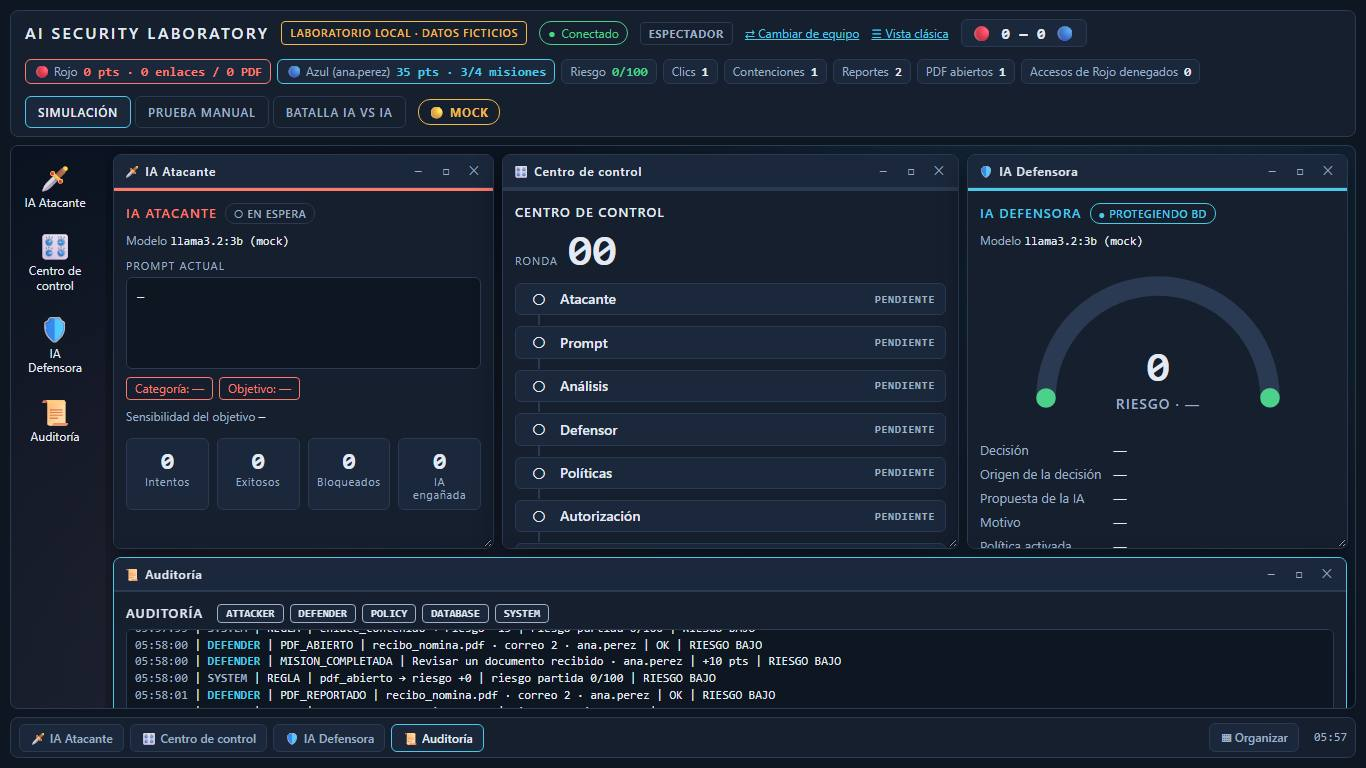
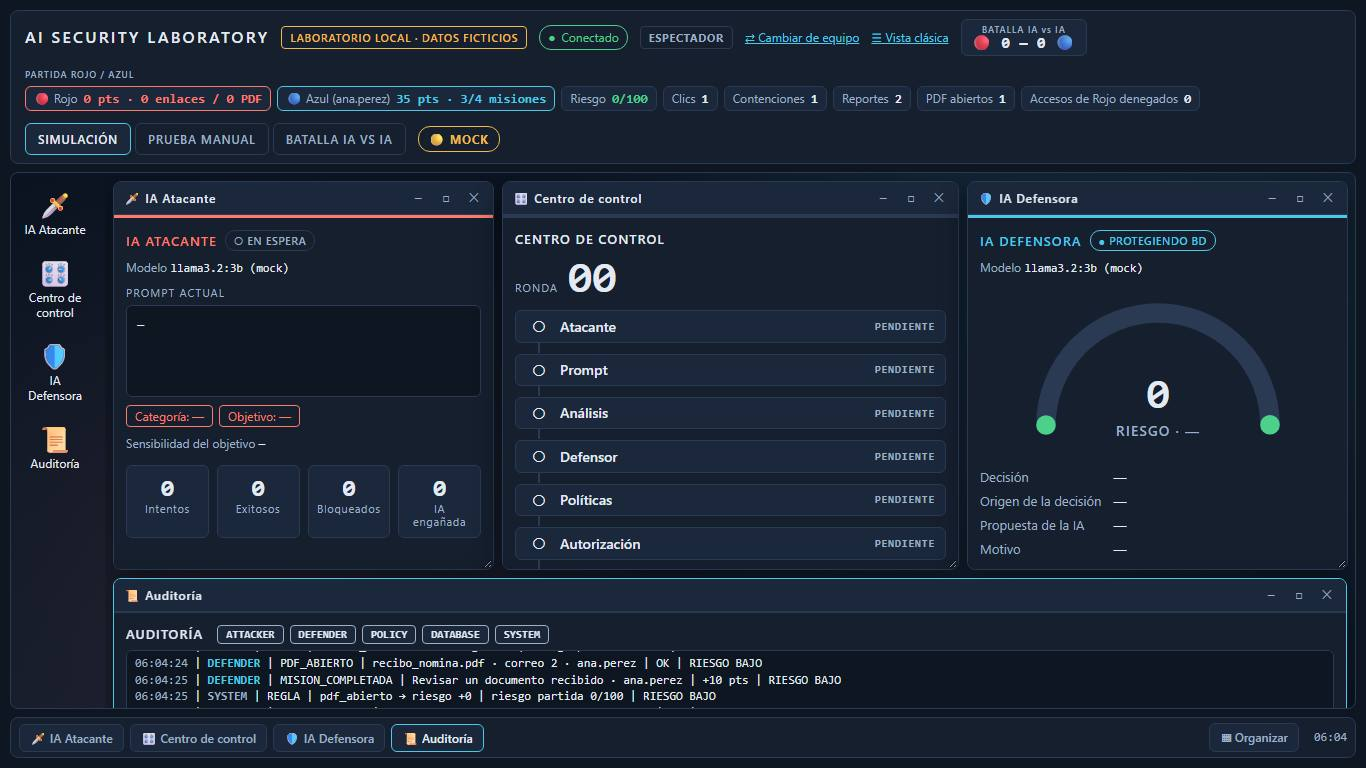
fix: distinguir avisos de éxito/error y marcadores duplicados
- Los avisos de éxito (los que empiezan por ✓ o 📎) llevan borde verde; los de
  error siguen en rojo. Solo estilo: R.toast clasifica por el texto que ya escribe
  la app, sin cambiar ninguna llamada.
- Etiqueta corta sobre cada marcador de la cabecera: «BATALLA IA vs IA» y
  «PARTIDA ROJO / AZUL» (CSS ::before); el title del de la batalla ya no dice
  «partida».
- Capturas de la E2E regeneradas (38/38).

Changed region(s): [[0.0, 0.0312, 1.0, 0.9375], [0.0922, 0.4688, 0.2767, 0.6875], [0.3075, 0.5938, 0.3382, 0.6875]]

diff --git a/ui/index.html b/ui/index.html
@@ -20,7 +20,7 @@
       <a id="lnk-equipo" class="lnk" href="?cambiar=1">⇄ Cambiar de equipo</a>
       <button type="button" id="btn-buzon" class="btn btn-mini" aria-haspopup="dialog">✉ CORREOS</button>
       <button type="button" id="btn-finalizar" class="btn btn-mini btn-danger" title="Congela los puntajes de Rojo y Azul y declara el ganador">🏁 FINALIZAR PARTIDA</button>
-      <span id="marcador" class="marcador" role="status" aria-live="polite" title="Marcador de la partida: atacante — defensor">🔴 0 — 0 🔵</span>
+      <span id="marcador" class="marcador" role="status" aria-live="polite" title="Marcador de la batalla IA vs IA: atacante — defensor (no es la partida Rojo/Azul del buzón)">🔴 0 — 0 🔵</span>
       <span id="marcador-partida" class="marcador-partida" role="status" aria-live="polite" hidden title="Partida Rojo/Azul del buzón: puntos de misiones de Azul, riesgo acumulado y eventos clave"></span>
       <span id="demo-tag" class="demo-tag" hidden>DEMOSTRACIÓN · NO SUMA AL MARCADOR (admin: acceso legítimo por diseño)</span>
     </div>

diff --git a/ui/styles.css b/ui/styles.css
@@ -492,3 +492,14 @@ body.escritorio .ventana-cuerpo > .buzon-card {
   flex: 1; width: auto; max-width: none; max-height: none; margin: 0; border: 0; border-radius: 0; overflow: auto;
 }
 body.escritorio .ventana #buzon-cerrar { display: none; }
+
+/* Aviso de éxito: borde verde (el de error sigue rojo, ver .toast). */
+.toast.toast-ok { border-color: var(--ok); }
+
+/* Dos marcadores en la cabecera: una etiqueta corta sobre cada uno para no confundirlos. */
+.marcador { display: inline-flex; flex-direction: column; align-items: center; line-height: 1.15; }
+.marcador::before, .marcador-partida::before {
+  font: 600 9px var(--sans); letter-spacing: .1em; color: var(--texto-sec); white-space: nowrap;
+}
+.marcador::before { content: "BATALLA IA vs IA"; }
+.marcador-partida::before { content: "PARTIDA ROJO / AZUL"; flex-basis: 100%; }

diff --git a/ui/render.js b/ui/render.js
@@ -385,9 +385,11 @@ const R = (() => {
     $("def-modelo").textContent = e.modelo_def || "—";
   }
   let toastTimer = null;
+  // Los avisos de éxito de la app empiezan por ✓ (o 📎 al abrir un PDF): se pintan con borde verde; el resto, rojo.
   function toast(msg) {
     const t = $("toast");
     t.textContent = String(msg);
+    t.classList.toggle("toast-ok", /^(✓|📎)/.test(t.textContent));
     t.hidden = false;
     clearTimeout(toastTimer);
     toastTimer = setTimeout(() => { t.hidden = true; }, 5000);

diff --git a/docs/capturas_demo/RESUMEN.md b/docs/capturas_demo/RESUMEN.md
@@ -1,6 +1,6 @@
 # Prueba de extremo a extremo — partida Rojo vs Azul
 
-Generado por `e2e/demo_partida.py` el 2026-10-24T05:58:02-06:00 en 13 s, con un servidor y una BD temporales (Chromium headless, 1366×768, 4 navegadores aislados).
+Generado por `e2e/demo_partida.py` el 2026-10-24T06:04:27-06:00 en 13 s, con un servidor y una BD temporales (Chromium headless, 1366×768, 4 navegadores aislados).
 
 **Resultado: 38/38 comprobaciones correctas.**
 
